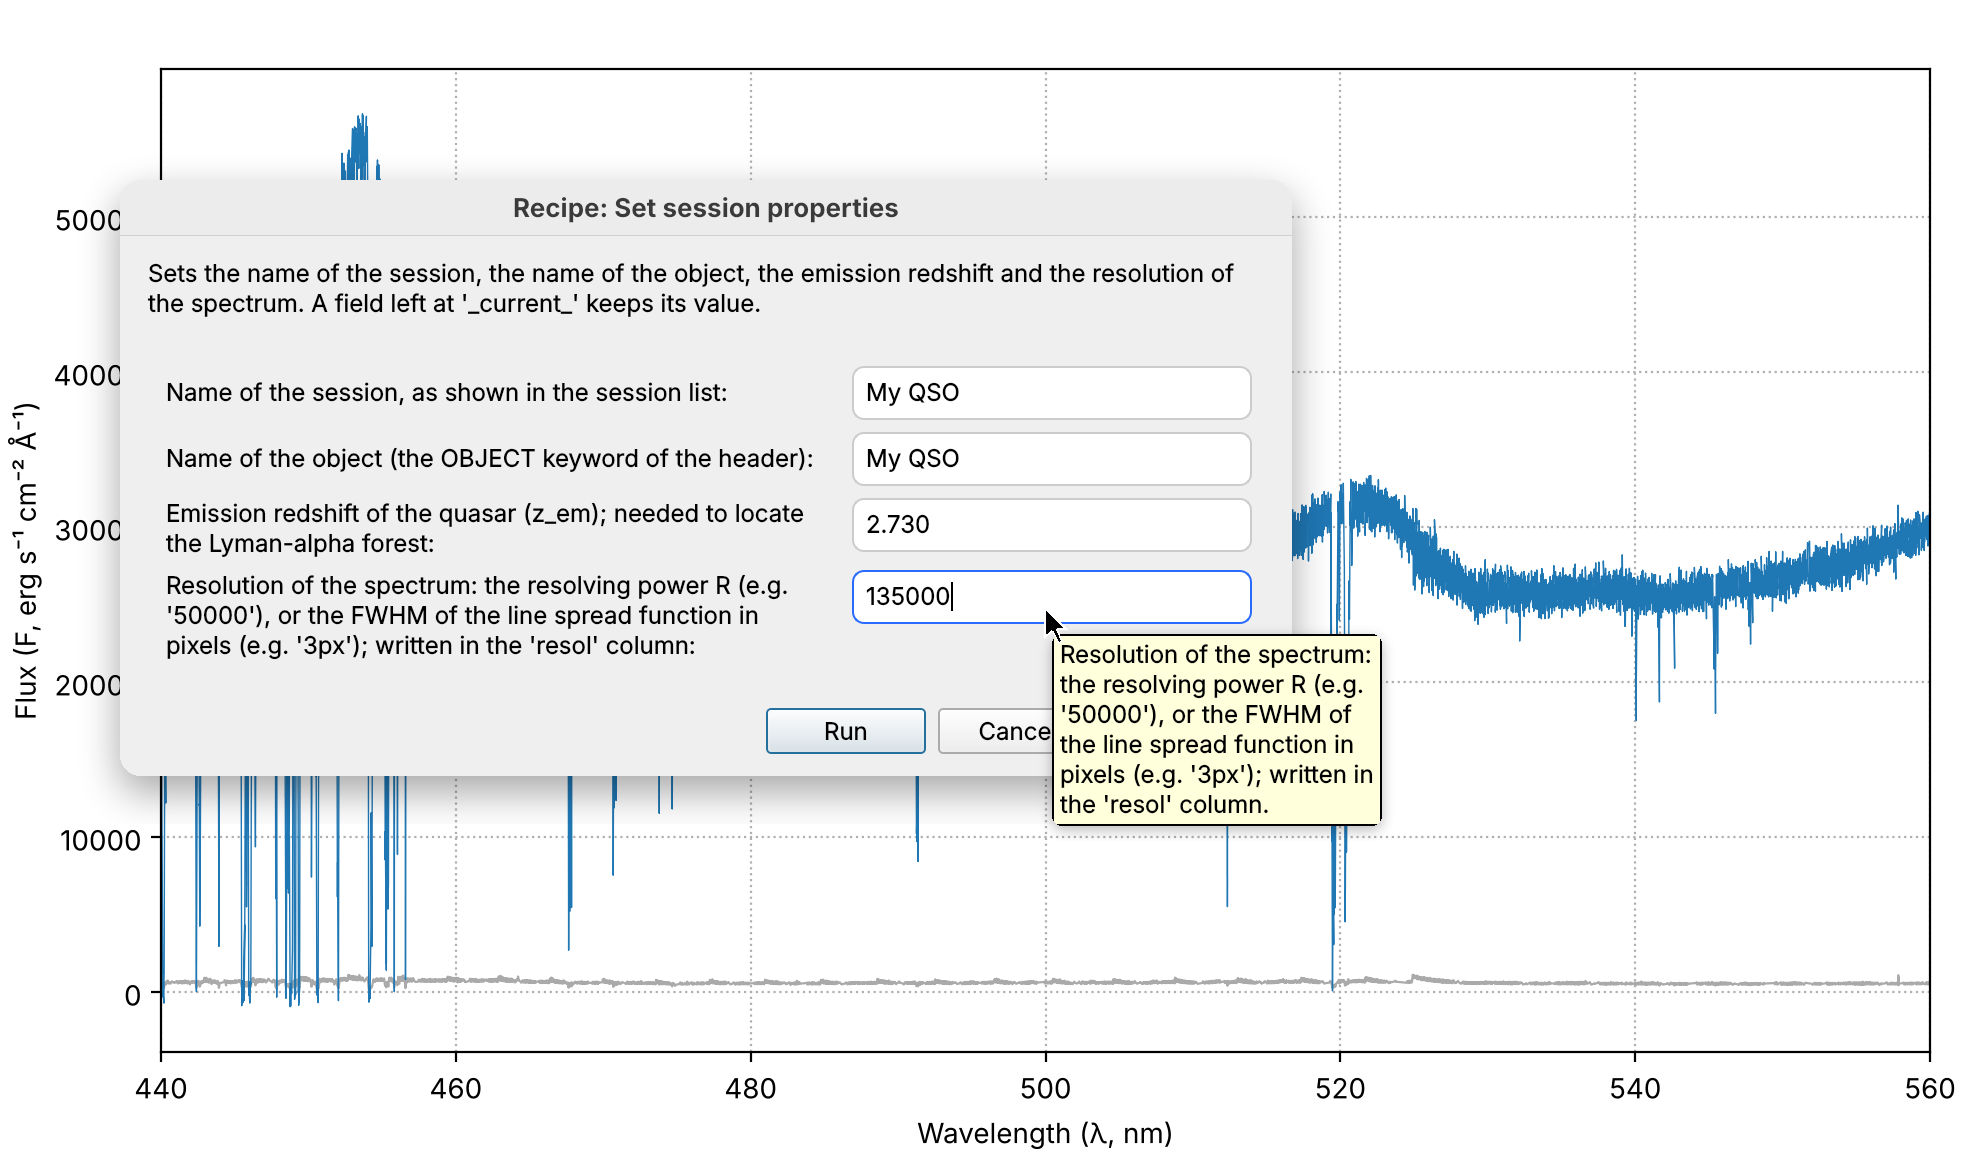
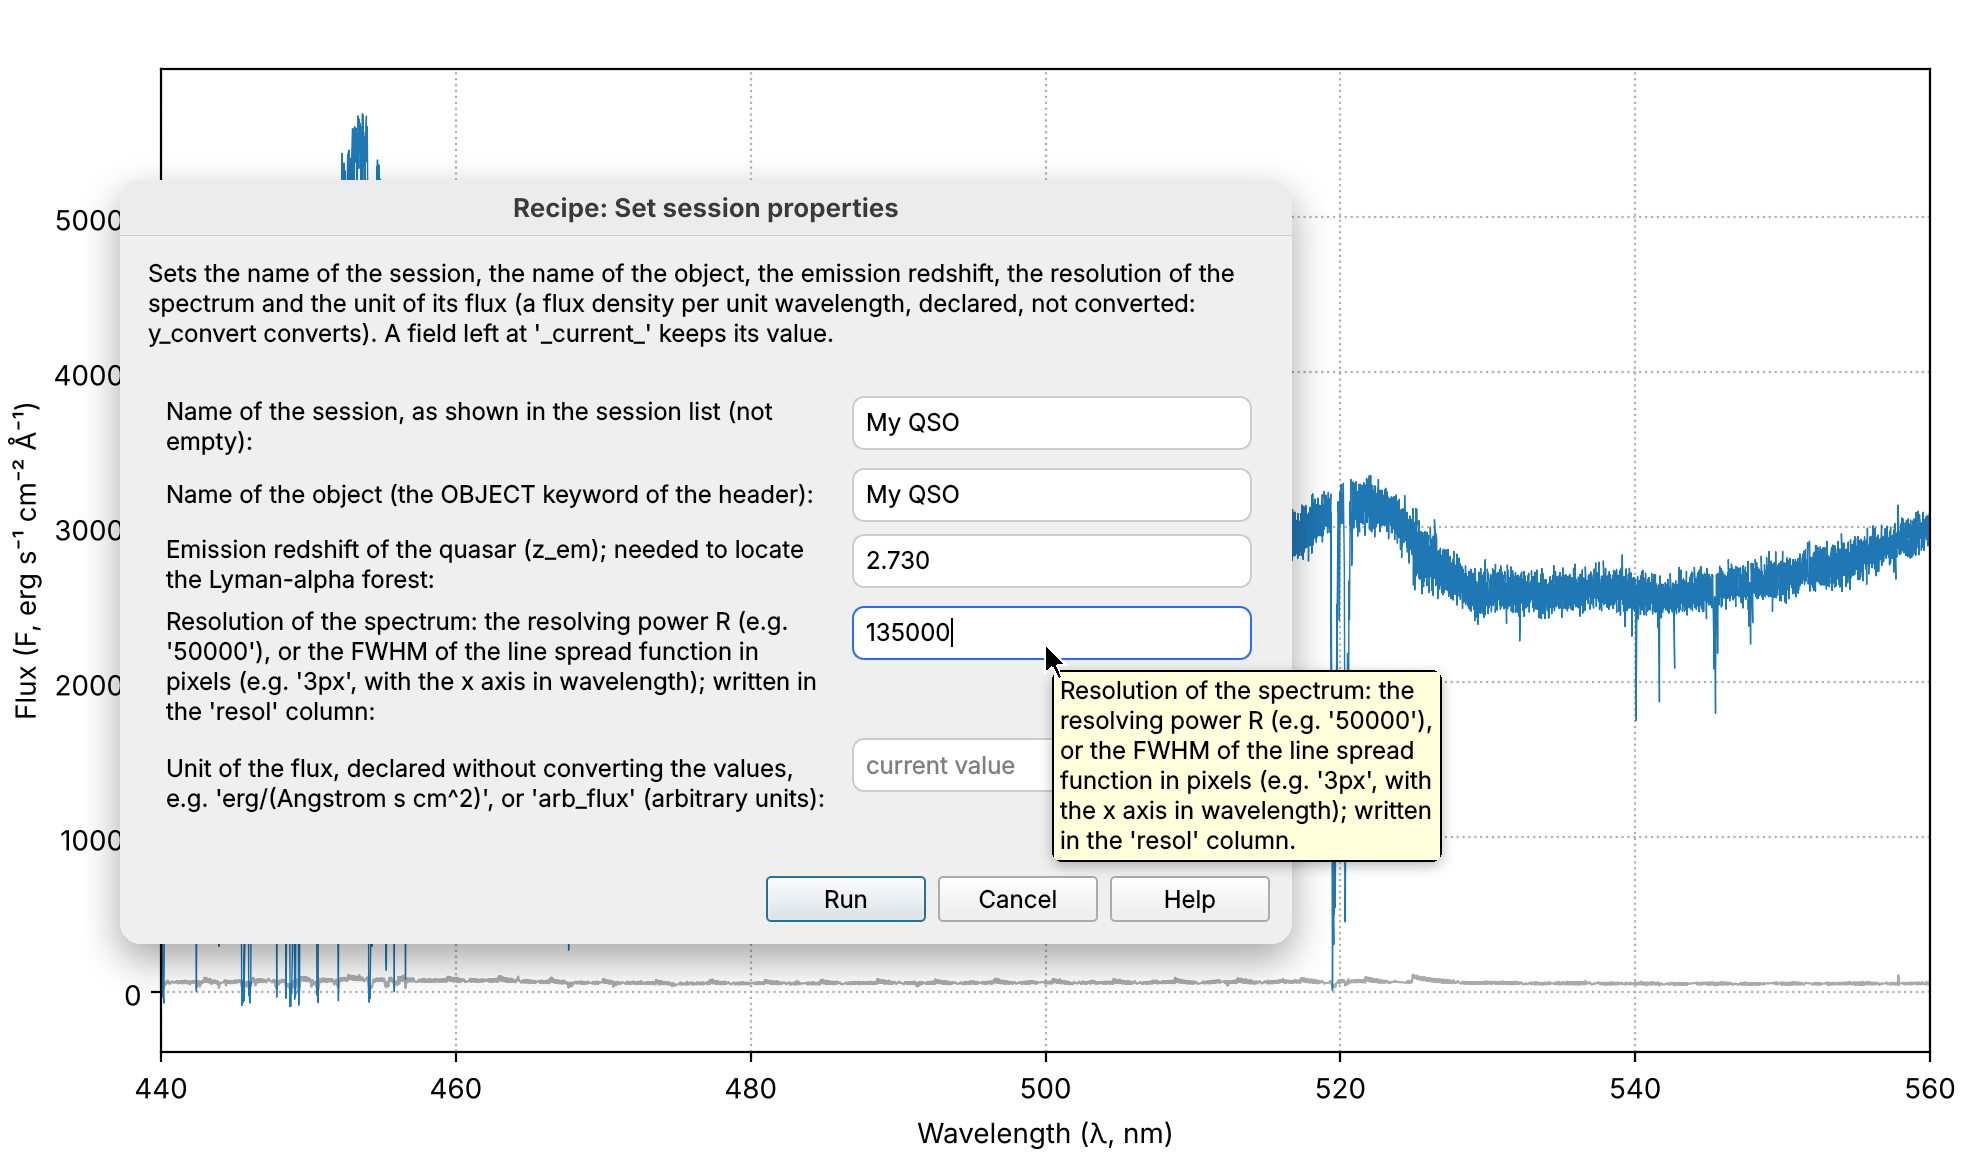
Screenshot of Set Properties with the field yunit
The description of yunit shortened for the dialog (the pointer to
y_convert moved to the details of the recipe). The spectra of the scenes
are in erg/(Angstrom s cm2) and keep it: no other scene changes.

Claude-Session: https://claude.ai/code/session_01N95cbJ1PCctxhuAdNHF6cv

Changed region(s): [[0.0311, 0.3109, 0.7454, 0.8394], [0.0621, 0.2176, 0.6212, 0.6218]]

diff --git a/astrocook/recipes/edit.py b/astrocook/recipes/edit.py
@@ -155,7 +155,7 @@ EDIT_RECIPES_SCHEMAS = {
         "methods": _methods_set_properties,
         "brief": "Set session properties.",
         "provides": ("z_em", "resolution"),
-        "details": "Sets the name of the session, the name of the object, the emission redshift, the resolution of the spectrum and the unit of its flux (declared, not converted). A field left at '_current_' keeps its value.",
+        "details": "Sets the name of the session, the name of the object, the emission redshift, the resolution of the spectrum and the unit of its flux (a flux density per unit wavelength, declared, not converted: y_convert converts). A field left at '_current_' keeps its value.",
         "params": [
             {"name": "name", "type": str, "default": "_current_", "keep": ("_current_",), "doc": "Name of the session, as shown in the session list (not empty)."},
             {"name": "object", "type": str, "default": "_current_", "keep": ("_current_",), "doc": "Name of the object (the OBJECT keyword of the header)."},
@@ -167,7 +167,7 @@ EDIT_RECIPES_SCHEMAS = {
             # flat one; False (#526) keeps it. The GUI asks the user
             # Declared, not converted (PR 8-bis, Guido: a parameter of
             # set_properties, as z_em and resol); y_convert converts
-            {"name": "yunit", "type": str, "default": "_current_", "keep": ("_current_",), "doc": "Unit of the flux, declared without converting the values: a flux density per unit wavelength (e.g. 'erg/(Angstrom s cm^2)', '1e-17 erg/(Angstrom s cm^2)') or 'arb_flux' (arbitrary units). y_convert converts a flux that has a unit."},
+            {"name": "yunit", "type": str, "default": "_current_", "keep": ("_current_",), "doc": "Unit of the flux, declared without converting the values, e.g. 'erg/(Angstrom s cm^2)', or 'arb_flux' (arbitrary units)."},
             {"name": "overwrite_resol_col", "type": bool, "default": False, "gui_hidden": True, "doc": "Replace an existing 'resol' column that varies along the spectrum (asked by the GUI)."}
         ],
         "url": "edit_cb.html#set_properties"

diff --git a/ROADMAP.md b/ROADMAP.md
@@ -1652,8 +1652,9 @@ its own, except the smallest; the model of each PR proposed by the rule
     the iso-magnitude grid is disabled, with a tooltip, unless the flux is
     per unit wavelength (it drew the grid for the uncalibrated spectra
     labelled `erg/(Å s cm2)`). The screenshot of *Set Properties*
-    (`editing_set_properties`) has a new field: not rebuilt here (the
-    spectra are in `astrocook-data`, not reachable from the session).
+    (`editing_set_properties`) rebuilt, with the new field; the spectra
+    of the scenes are in `erg/(Å s cm2)` and keep it, so no other scene
+    changes.
   - *CSV (F129)*: `export_ascii` writes ECSV with `,` (units, z_em in the
     metadata), the names `lam`, `lammin`, `lammax`, `F`, `dF`; the CSV
     loader reads it by name with all its columns; a file with a header
